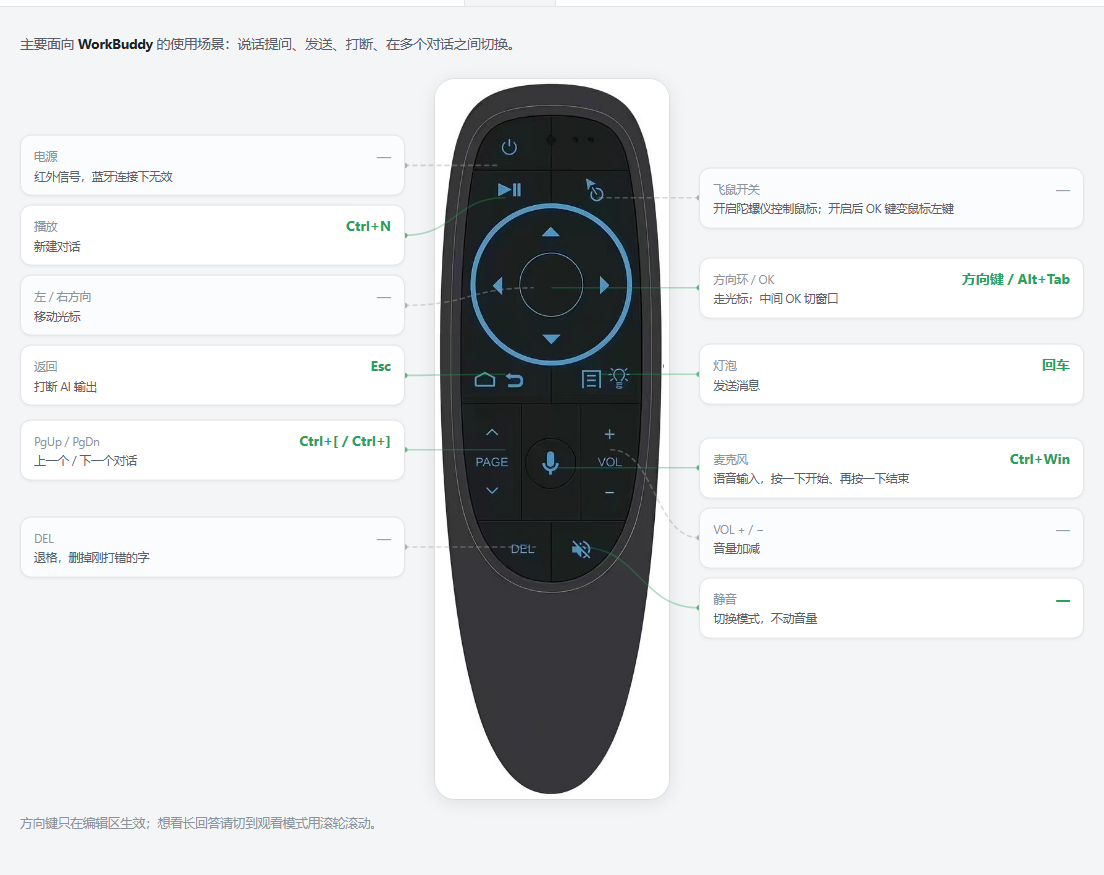
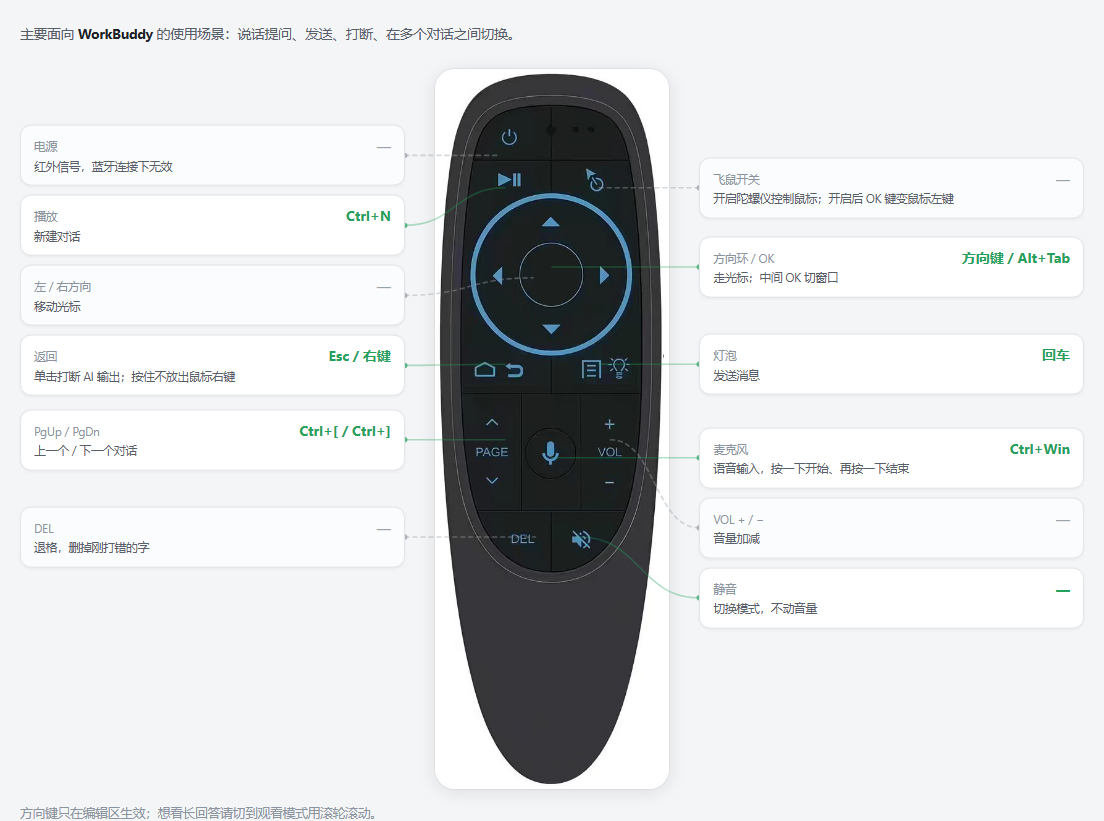
v0.0.3：观看模式补 OK 键与文案修正，建立版本机制与 MIT 许可

diff --git a/help.html b/help.html
@@ -17,6 +17,9 @@
   .topbar { background:#fff; border-bottom:1px solid var(--line); }
   .topbar-inner { max-width:1120px; margin:0 auto; padding:20px 28px 0; }
   h1 { margin:0 0 2px; font-size:20px; font-weight:650; letter-spacing:.2px; }
+  h1 .ver { font-size:12px; font-weight:600; color:#57606a; background:#eef0f3;
+            border:1px solid #dcdfe4; border-radius:6px; padding:2px 8px;
+            margin-left:10px; vertical-align:middle; letter-spacing:0; }
   .sub { margin:0 0 16px; color:var(--muted); font-size:12.5px; }
   nav { display:flex; gap:6px; justify-content:center; }
   nav button {
@@ -189,6 +192,22 @@
   .lightbox img { max-width:100%; max-height:100%; object-fit:contain;
                   border-radius:12px; box-shadow:0 12px 40px rgba(0,0,0,.4); }
 
+  /* ---- 版本日志 ---- */
+  .changelog { max-width:760px; margin:0 auto; }
+  .changelog > .lead { text-align:center; margin-bottom:22px; }
+  .ver-block {
+    background:#fff; border:1px solid var(--line); border-radius:13px;
+    padding:16px 20px; margin-bottom:14px;
+    box-shadow:0 1px 3px rgba(27,31,36,.04);
+  }
+  .ver-head { display:flex; align-items:center; gap:12px; margin-bottom:8px; }
+  .ver-tag { font-size:14px; font-weight:650; color:#1f6feb;
+             background:#eef4ff; border:1px solid #d6e4ff;
+             border-radius:6px; padding:2px 10px; }
+  .ver-date { font-size:12px; color:var(--faint); }
+  .ver-block ul { margin:0; padding-left:20px; color:#38414a; }
+  .ver-block li { margin:4px 0; font-size:13px; }
+
   @media (max-width:900px){
     .stage { grid-template-columns:minmax(0,1fr) auto minmax(0,1fr); gap:14px; }
     .remote-frame { height:600px; }
@@ -200,13 +219,14 @@
 </head>
 <body>
 <header class="topbar"><div class="topbar-inner">
-  <h1>G10S 遥控器按键说明</h1>
+  <h1>G10S 遥控器按键说明 <span class="ver">v0.0.3</span></h1>
   <p class="sub">同一批按键在两种模式下做不同的事 · 把鼠标移到卡片上可高亮对应按键</p>
   <nav>
     <button class="on" data-t="p1">模式切换</button>
     <button data-t="p2">对话模式</button>
     <button data-t="p3">观看模式</button>
     <button data-t="p4">联系我</button>
+    <button data-t="p5">版本日志</button>
   </nav>
 </div></header>
 
@@ -253,7 +273,8 @@
         <i class="anchor" data-key="power" style="left:28.0%;top:12.0%"></i>
 <i class="anchor" data-key="play" style="left:30.0%;top:16.5%"></i>
 <i class="anchor" data-key="back" style="left:70.0%;top:16.5%"></i>
-<i class="anchor" data-key="ring" style="left:50.0%;top:29.0%"></i>
+<i class="anchor" data-key="ring" style="left:50.0%;top:27.5%"></i>
+<i class="anchor" data-key="updown" style="left:50.0%;top:21.0%"></i>
 <i class="anchor" data-key="dir" style="left:42.0%;top:29.0%"></i>
 <i class="anchor" data-key="ret" style="left:30.0%;top:41.0%"></i>
 <i class="anchor" data-key="lamp" style="left:70.0%;top:41.0%"></i>
@@ -268,7 +289,7 @@
 <i class="anchor" data-key="mute" style="left:62.0%;top:65.0%"></i>
       </div>
       <div class="side right"><div class="card off" data-key="back" data-kind="off" data-pos="16.5" style="top:16.5%"><div class="r1"><span class="k">飞鼠开关</span><span class="v">—</span></div><div class="d">开启陀螺仪控制鼠标；开启后 OK 键变鼠标左键</div></div>
-<div class="card on" data-key="ring" data-kind="on" data-pos="29.0" style="top:29.0%"><div class="r1"><span class="k">方向环 / OK</span><span class="v">方向键 / Alt+Tab</span></div><div class="d">走光标；中间 OK 切窗口</div></div>
+<div class="card on" data-key="ring" data-kind="on" data-pos="27.5" style="top:27.5%"><div class="r1"><span class="k">方向环 / OK</span><span class="v">方向键 / Alt+Tab</span></div><div class="d">走光标；中间 OK 切窗口</div></div>
 <div class="card on" data-key="lamp" data-kind="on" data-pos="41.0" style="top:41.0%"><div class="r1"><span class="k">灯泡</span><span class="v">回车</span></div><div class="d">发送消息</div></div>
 <div class="card on" data-key="mic" data-kind="on" data-pos="54.0" style="top:54.0%"><div class="r1"><span class="k">麦克风</span><span class="v">Ctrl+Win</span></div><div class="d">语音输入，按一下开始、再按一下结束</div></div>
 <div class="card off" data-key="volpair" data-kind="off" data-pos="51.5" style="top:51.5%"><div class="r1"><span class="k">VOL + / −</span><span class="v">—</span></div><div class="d">音量加减</div></div>
@@ -283,7 +304,7 @@
     <div class="stage" data-mode="watch">
       <div class="side left"><div class="card off" data-key="power" data-kind="off" data-pos="12.0" style="top:12.0%"><div class="r1"><span class="k">电源</span><span class="v">—</span></div><div class="d">红外信号，蓝牙连接下无效</div></div>
 <div class="card on" data-key="play" data-kind="on" data-pos="16.5" style="top:16.5%"><div class="r1"><span class="k">播放</span><span class="v">播放 / 暂停</span></div><div class="d">原生媒体控制</div></div>
-<div class="card off" data-key="dir" data-kind="off" data-pos="29.0" style="top:29.0%"><div class="r1"><span class="k">左 / 右方向</span><span class="v">—</span></div><div class="d">光标移动、视频快进</div></div>
+<div class="card off" data-key="dir" data-kind="off" data-pos="29.0" style="top:29.0%"><div class="r1"><span class="k">左 / 右方向</span><span class="v">—</span></div><div class="d">光标移动、视频进退</div></div>
 <div class="card on" data-key="ret" data-kind="on" data-pos="41.0" style="top:41.0%"><div class="r1"><span class="k">返回</span><span class="v">浏览器后退 / 右键</span></div><div class="d">单击回到上一页；按住不放出鼠标右键</div></div>
 <div class="card on" data-key="pgpair" data-kind="on" data-pos="51.5" style="top:51.5%"><div class="r1"><span class="k">PgUp / PgDn</span><span class="v">Ctrl+Tab / Ctrl+Shift+Tab</span></div><div class="d">下一个 / 上一个标签页</div></div>
 <div class="card off" data-key="del" data-kind="off" data-pos="65.0" style="top:65.0%"><div class="r1"><span class="k">DEL</span><span class="v">—</span></div><div class="d">退格</div></div></div>
@@ -292,7 +313,8 @@
         <i class="anchor" data-key="power" style="left:28.0%;top:12.0%"></i>
 <i class="anchor" data-key="play" style="left:30.0%;top:16.5%"></i>
 <i class="anchor" data-key="back" style="left:70.0%;top:16.5%"></i>
-<i class="anchor" data-key="ring" style="left:50.0%;top:29.0%"></i>
+<i class="anchor" data-key="ring" style="left:50.0%;top:27.5%"></i>
+<i class="anchor" data-key="updown" style="left:50.0%;top:21.0%"></i>
 <i class="anchor" data-key="dir" style="left:42.0%;top:29.0%"></i>
 <i class="anchor" data-key="ret" style="left:30.0%;top:41.0%"></i>
 <i class="anchor" data-key="lamp" style="left:70.0%;top:41.0%"></i>
@@ -307,7 +329,8 @@
 <i class="anchor" data-key="mute" style="left:62.0%;top:65.0%"></i>
       </div>
       <div class="side right"><div class="card off" data-key="back" data-kind="off" data-pos="16.5" style="top:16.5%"><div class="r1"><span class="k">飞鼠开关</span><span class="v">—</span></div><div class="d">开启陀螺仪控制鼠标；开启后 OK 键变鼠标左键</div></div>
-<div class="card on" data-key="ring" data-kind="on" data-pos="29.0" style="top:29.0%"><div class="r1"><span class="k">上 / 下</span><span class="v">滚轮</span></div><div class="d">滚动页面，比翻页更顺</div></div>
+<div class="card on" data-key="updown" data-kind="on" data-pos="21.0" style="top:21.0%"><div class="r1"><span class="k">上 / 下</span><span class="v">滚轮</span></div><div class="d">滚动页面，比翻页更顺</div></div>
+<div class="card on" data-key="ring" data-kind="on" data-pos="27.5" style="top:27.5%"><div class="r1"><span class="k">OK</span><span class="v">Alt+Tab</span></div><div class="d">切窗口（飞鼠关时）</div></div>
 <div class="card on" data-key="lamp" data-kind="on" data-pos="41.0" style="top:41.0%"><div class="r1"><span class="k">灯泡</span><span class="v">回车</span></div><div class="d">确认输入框里的内容</div></div>
 <div class="card on" data-key="mic" data-kind="on" data-pos="54.0" style="top:54.0%"><div class="r1"><span class="k">麦克风</span><span class="v">Ctrl+Win</span></div><div class="d">语音输入</div></div>
 <div class="card off" data-key="volpair" data-kind="off" data-pos="51.5" style="top:51.5%"><div class="r1"><span class="k">VOL + / −</span><span class="v">—</span></div><div class="d">音量加减</div></div>
@@ -348,6 +371,26 @@
           <div class="reward-note">扫码即可打赏<br>金额随意，心意领了</div>
         </div>
       </div>
+    </div>
+  </section>
+
+  <section id="p5">
+    <div class="changelog">
+      <p class="lead">按版本倒序记录每次更新，完整历史见仓库的 CHANGELOG.md。</p>
+      <div class="ver-block"><div class="ver-head"><span class="ver-tag">v0.0.3</span><span class="ver-date">2026-11-19</span></div><ul><li>灯泡键改为单击回车、长按鼠标右键、双击防连发，并补状态机自测</li>
+<li>右键改用「长按返回」：固件改发 AC Home，去掉软件计时</li>
+<li>说明页：观看模式补 OK 键说明，左/右方向「视频快进」改为「视频进退」</li>
+<li>建立版本机制：版本号单一来源（VERSION），说明页显示版本号并新增「版本日志」页签</li></ul></div>
+<div class="ver-block"><div class="ver-head"><span class="ver-tag">v0.0.2</span><span class="ver-date">2026-11-18</span></div><ul><li>语音打断路径补回 20ms 间隔，修饰键也能结束语音</li>
+<li>补上 OK 键这条漏网的语音收尾路径</li>
+<li>静音键在语音中只收尾不切模式，音量复位照做</li>
+<li>README 改为说明页三个页签的截图版，加入下载入口</li></ul></div>
+<div class="ver-block"><div class="ver-head"><span class="ver-tag">v0.0.1</span><span class="ver-date">2026-11-18</span></div><ul><li>初始发布：播放键→回车，麦克风键→Ctrl+Win 语音输入</li>
+<li>两种模式（对话 / 观看）与托盘图标、右键菜单、开机自启</li>
+<li>静音键切模式 + Core Audio 立即复位音量，蓝牙按 AVRCP 延迟同步</li>
+<li>OK 键两种身份统一处理为 Alt+Tab 窗口切换</li>
+<li>键位表驱动映射、阶段收尾、单实例保护</li>
+<li>单文件 exe 打包，附带遥控器图解的按键说明页</li></ul></div>
     </div>
   </section>
 </main>
@@ -477,7 +520,7 @@
     if (e.key === 'Escape') lb.classList.remove('on');
   });
 
-  var m = location.hash.match(/^#(p[1-4])$/);
+  var m = location.hash.match(/^#(p[1-5])$/);
   if (m) activate(m[1]);
 
   window.addEventListener('load', refresh);

diff --git a/tools/make_help.py b/tools/make_help.py
@@ -13,7 +13,9 @@
 用法：python tools/make_help.py
 """
 import base64
+import html as html_mod
 import os
+import re
 
 ROOT = os.path.dirname(os.path.dirname(os.path.abspath(__file__)))
 REMOTE = os.path.join(ROOT, "assets", "remote-crop.jpg")
@@ -22,7 +24,15 @@ ICON_WATCH = os.path.join(ROOT, "app-preview-watch.png")
 WHALE = os.path.join(ROOT, "assets", "whale-chan.png")
 QR_WECHAT = os.path.join(ROOT, "assets", "qr-wechat-crop.jpg")
 QR_ALIPAY = os.path.join(ROOT, "assets", "qr-alipay-crop.jpg")
+VERSION_FILE = os.path.join(ROOT, "VERSION")
+CHANGELOG = os.path.join(ROOT, "CHANGELOG.md")
 OUT = os.path.join(ROOT, "help.html")
+
+
+def read_version():
+    """版本号单一来源：VERSION 文件。禁止在别处手写版本号。"""
+    with open(VERSION_FILE, encoding="utf-8") as f:
+        return f.read().strip()
 
 
 def data_uri(path, mime):
@@ -36,7 +46,8 @@ KEY = {
     "power": (28.0, 12.0),
     "play": (30.0, 16.5),
     "back": (70.0, 16.5),   # 右上角飞鼠 / 陀螺仪开关，未接管
-    "ring": (50.0, 29.0),   # 方向环中心，也是 OK 键
+    "ring": (50.0, 27.5),   # 方向环中心圆圈，OK 键
+    "updown": (50.0, 21.0), # 方向环上箭头：上 / 下（观看模式=滚轮）
     "dir": (42.0, 29.0),    # 方向环左箭头：左 / 右方向
     "ret": (30.0, 41.0),    # 房子 + 弯箭头
     "lamp": (70.0, 41.0),   # ≡ + 灯泡
@@ -72,14 +83,15 @@ DIALOG_RIGHT = [
 WATCH_LEFT = [
     ("power", "电源", "—", "红外信号，蓝牙连接下无效", "off"),
     ("play", "播放", "播放 / 暂停", "原生媒体控制", "on"),
-    ("dir", "左 / 右方向", "—", "光标移动、视频快进", "off"),
+    ("dir", "左 / 右方向", "—", "光标移动、视频进退", "off"),
     ("ret", "返回", "浏览器后退 / 右键", "单击回到上一页；按住不放出鼠标右键", "on"),
     ("pgpair", "PgUp / PgDn", "Ctrl+Tab / Ctrl+Shift+Tab", "下一个 / 上一个标签页", "on"),
     ("del", "DEL", "—", "退格", "off"),
 ]
 WATCH_RIGHT = [
     ("back", "飞鼠开关", "—", "开启陀螺仪控制鼠标；开启后 OK 键变鼠标左键", "off"),
-    ("ring", "上 / 下", "滚轮", "滚动页面，比翻页更顺", "on"),
+    ("updown", "上 / 下", "滚轮", "滚动页面，比翻页更顺", "on"),
+    ("ring", "OK", "Alt+Tab", "切窗口（飞鼠关时）", "on"),
     ("lamp", "灯泡", "回车", "确认输入框里的内容", "on"),
     ("mic", "麦克风", "Ctrl+Win", "语音输入", "on"),
     ("volpair", "VOL + / −", "—", "音量加减", "off"),
@@ -110,6 +122,32 @@ def build_anchors():
     return "\n".join(out)
 
 
+def build_changelog():
+    """把 CHANGELOG.md 解析成版本日志卡片（数据只有 CHANGELOG.md 一份来源）。"""
+    with open(CHANGELOG, encoding="utf-8") as f:
+        text = f.read()
+    # 每个版本：## vX.Y.Z — YYYY-MM-DD，下面是 - 条目
+    blocks = re.split(r"^##\s+", text, flags=re.M)[1:]
+    out = []
+    for block in blocks:
+        lines = [ln.strip() for ln in block.splitlines() if ln.strip()]
+        if not lines:
+            continue
+        title = lines[0]
+        m = re.match(r"(v[\d.]+)\s*[—-]\s*(\d{4}-\d{2}-\d{2})", title)
+        if m:
+            ver, date = m.group(1), m.group(2)
+        else:
+            ver, date = title, ""
+        items = [ln[1:].strip() for ln in lines[1:] if ln.startswith("- ")]
+        lis = "\n".join("<li>%s</li>" % html_mod.escape(it) for it in items)
+        out.append(
+            '<div class="ver-block"><div class="ver-head">'
+            '<span class="ver-tag">%s</span><span class="ver-date">%s</span></div>'
+            '<ul>%s</ul></div>' % (html_mod.escape(ver), html_mod.escape(date), lis))
+    return "\n".join(out)
+
+
 TPL = """<!DOCTYPE html>
 <html lang="zh-CN">
 <head>
@@ -129,6 +167,9 @@ TPL = """<!DOCTYPE html>
   .topbar { background:#fff; border-bottom:1px solid var(--line); }
   .topbar-inner { max-width:1120px; margin:0 auto; padding:20px 28px 0; }
   h1 { margin:0 0 2px; font-size:20px; font-weight:650; letter-spacing:.2px; }
+  h1 .ver { font-size:12px; font-weight:600; color:#57606a; background:#eef0f3;
+            border:1px solid #dcdfe4; border-radius:6px; padding:2px 8px;
+            margin-left:10px; vertical-align:middle; letter-spacing:0; }
   .sub { margin:0 0 16px; color:var(--muted); font-size:12.5px; }
   nav { display:flex; gap:6px; justify-content:center; }
   nav button {
@@ -301,6 +342,22 @@ TPL = """<!DOCTYPE html>
   .lightbox img { max-width:100%; max-height:100%; object-fit:contain;
                   border-radius:12px; box-shadow:0 12px 40px rgba(0,0,0,.4); }
 
+  /* ---- 版本日志 ---- */
+  .changelog { max-width:760px; margin:0 auto; }
+  .changelog > .lead { text-align:center; margin-bottom:22px; }
+  .ver-block {
+    background:#fff; border:1px solid var(--line); border-radius:13px;
+    padding:16px 20px; margin-bottom:14px;
+    box-shadow:0 1px 3px rgba(27,31,36,.04);
+  }
+  .ver-head { display:flex; align-items:center; gap:12px; margin-bottom:8px; }
+  .ver-tag { font-size:14px; font-weight:650; color:#1f6feb;
+             background:#eef4ff; border:1px solid #d6e4ff;
+             border-radius:6px; padding:2px 10px; }
+  .ver-date { font-size:12px; color:var(--faint); }
+  .ver-block ul { margin:0; padding-left:20px; color:#38414a; }
+  .ver-block li { margin:4px 0; font-size:13px; }
+
   @media (max-width:900px){
     .stage { grid-template-columns:minmax(0,1fr) auto minmax(0,1fr); gap:14px; }
     .remote-frame { height:600px; }
@@ -312,13 +369,14 @@ TPL = """<!DOCTYPE html>
 </head>
 <body>
 <header class="topbar"><div class="topbar-inner">
-  <h1>G10S 遥控器按键说明</h1>
+  <h1>G10S 遥控器按键说明 <span class="ver">{{VERSION}}</span></h1>
   <p class="sub">同一批按键在两种模式下做不同的事 · 把鼠标移到卡片上可高亮对应按键</p>
   <nav>
     <button class="on" data-t="p1">模式切换</button>
     <button data-t="p2">对话模式</button>
     <button data-t="p3">观看模式</button>
     <button data-t="p4">联系我</button>
+    <button data-t="p5">版本日志</button>
   </nav>
 </div></header>
 
@@ -410,6 +468,13 @@ TPL = """<!DOCTYPE html>
           <div class="reward-note">扫码即可打赏<br>金额随意，心意领了</div>
         </div>
       </div>
+    </div>
+  </section>
+
+  <section id="p5">
+    <div class="changelog">
+      <p class="lead">按版本倒序记录每次更新，完整历史见仓库的 CHANGELOG.md。</p>
+      {{CHANGELOG}}
     </div>
   </section>
 </main>
@@ -539,7 +604,7 @@ TPL = """<!DOCTYPE html>
     if (e.key === 'Escape') lb.classList.remove('on');
   });
 
-  var m = location.hash.match(/^#(p[1-4])$/);
+  var m = location.hash.match(/^#(p[1-5])$/);
   if (m) activate(m[1]);
 
   window.addEventListener('load', refresh);
@@ -557,6 +622,8 @@ TPL = """<!DOCTYPE html>
 
 def main():
     html = (TPL
+            .replace("{{VERSION}}", "v" + read_version())
+            .replace("{{CHANGELOG}}", build_changelog())
             .replace("{{ICON_DIALOG}}", data_uri(ICON_DIALOG, "image/png"))
             .replace("{{ICON_WATCH}}", data_uri(ICON_WATCH, "image/png"))
             .replace("{{WHALE}}", data_uri(WHALE, "image/png"))

diff --git a/CHANGELOG.md b/CHANGELOG.md
@@ -1,0 +1,24 @@
+# 变更日志
+
+## v0.0.3 — 2026-11-19
+
+- 灯泡键改为单击回车、长按鼠标右键、双击防连发，并补状态机自测
+- 右键改用「长按返回」：固件改发 AC Home，去掉软件计时
+- 说明页：观看模式补 OK 键说明，左/右方向「视频快进」改为「视频进退」
+- 建立版本机制：版本号单一来源（VERSION），说明页显示版本号并新增「版本日志」页签
+
+## v0.0.2 — 2026-11-18
+
+- 语音打断路径补回 20ms 间隔，修饰键也能结束语音
+- 补上 OK 键这条漏网的语音收尾路径
+- 静音键在语音中只收尾不切模式，音量复位照做
+- README 改为说明页三个页签的截图版，加入下载入口
+
+## v0.0.1 — 2026-11-18
+
+- 初始发布：播放键→回车，麦克风键→Ctrl+Win 语音输入
+- 两种模式（对话 / 观看）与托盘图标、右键菜单、开机自启
+- 静音键切模式 + Core Audio 立即复位音量，蓝牙按 AVRCP 延迟同步
+- OK 键两种身份统一处理为 Alt+Tab 窗口切换
+- 键位表驱动映射、阶段收尾、单实例保护
+- 单文件 exe 打包，附带遥控器图解的按键说明页
